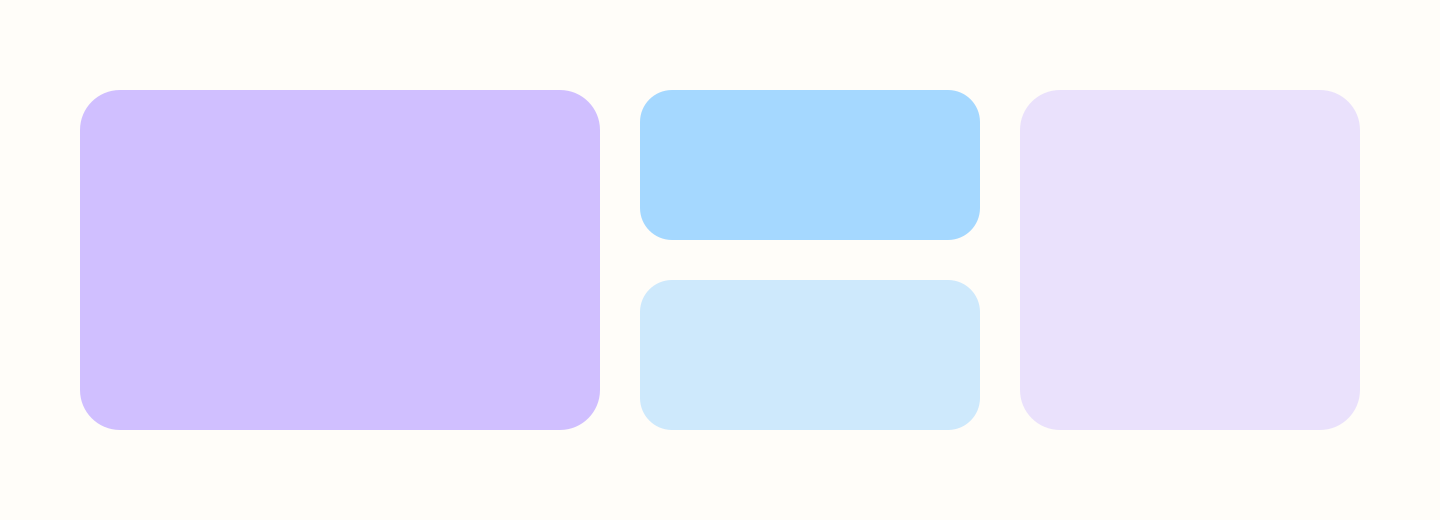
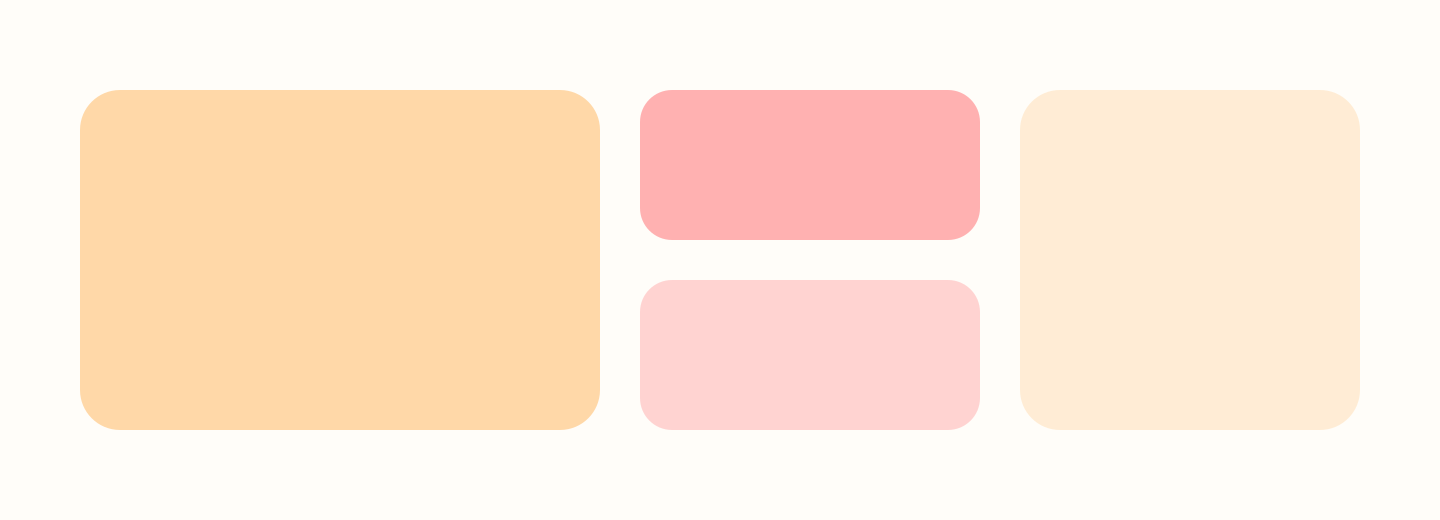
content(blog): TulipLot vs start.me comparison
Claude-Session: https://claude.ai/code/session_018xGUqZse2QXBPHcTCpKf1t

diff --git a/frontend/src/app/features/marketing/content.generated.ts b/frontend/src/app/features/marketing/content.generated.ts
@@ -121,6 +121,33 @@ export const POSTS: ContentDoc[] = [
     "html": "<h2>The short answer</h2>\n<p>Short answer: you can&#39;t put Gmail and Google Calendar inside the same page, because Google won&#39;t let either one load inside a frame on someone else&#39;s site. &quot;Side by side&quot; here means a panel, a second window, or a launcher, not two panes stitched into one webpage. Three options get you there, and each is worth knowing before you pick one.</p>\n<h2>Option 1: Gmail&#39;s built-in side panel</h2>\n<p>Google already built this one. Open Gmail on the web and you&#39;ll find a side panel that shows your calendar without leaving your inbox. It&#39;s free, it&#39;s already there, and it&#39;s the first thing worth trying before you install anything else.</p>\n<p>The catch is size and scope. The panel is narrow, built for a glance rather than planning a full week. And it&#39;s Gmail-first: open Calendar on its own and there&#39;s no equivalent panel showing your inbox back. It solves the problem from one direction only.</p>\n<h2>Option 2: two windows, snapped</h2>\n<p>The other free option is your operating system. Snap Gmail to one half of the screen and Calendar to the other: Windows Snap or macOS Split View, both a drag or a keyboard shortcut away. Nothing to install, and you get two full, unrestricted windows instead of one narrow panel.</p>\n<p>The tradeoff is that it doesn&#39;t stick. Close the windows, restart your computer, or just open a fresh browser session, and the split is gone. It&#39;s a real fix for right now, rebuilt from scratch the next time you need it.</p>\n<h2>Option 3: a dashboard with launcher cells</h2>\n<p>TulipLot takes a different approach: a fixed grid where Gmail and Calendar each get their own cell, in the same spot every time you open it. Neither one loads live inside that cell. Click it, and it opens the real Gmail or the real Calendar in its own browser tab, exactly as if you&#39;d typed the address yourself.</p>\n<p>That&#39;s not embedded mail, and it isn&#39;t pretending to be. What you get instead is one predictable place to click from, sitting next to cells that do load live: a Trello board, a project tracker, whatever else you check in the same few minutes. Gmail and Calendar become two fixed spots in your daily lineup instead of two tabs buried among the rest.</p>\n<h2>Why neither one embeds</h2>\n<p>Gmail and Calendar refuse to load inside anyone else&#39;s page on purpose. It&#39;s the same defense banks use, aimed at an attack called clickjacking, where a hidden frame tricks you into clicking something you never meant to click. Google isn&#39;t being difficult here; it&#39;s protecting the account that guards your email and your schedule.</p>\n<p>That protection runs deeper than a header any extension could strip. <a href=\"/guides/why-sites-wont-load\">Why some sites won&#39;t load in a dashboard</a> covers the full mechanics, but the short version is that Gmail checks whether it&#39;s the top-level page in your browser, not just whether a header allows framing. No tool gets around that, and none honestly should try.</p>\n<h2>Questions</h2>\n<h3>Can I put Gmail inside a dashboard cell?</h3>\n<p>No. Gmail sends back an instruction telling every browser to refuse displaying it inside another page, with no exception for any dashboard, extension, or tool. A Gmail cell always opens the real Gmail in its own tab instead of loading it live, and that&#39;s true everywhere, not just in TulipLot.</p>\n<h3>Does the TulipLot Companion unlock Gmail?</h3>\n<p>No. The Companion is a free extension that strips embedding headers for sites blocked only at that level, which is what unlocks catalog sites like Notion once you turn it on. Gmail&#39;s protection goes past headers into how its login and session behave outside a top-level page, and no extension reaches that deep. Gmail stays a one-click launcher whether or not the Companion is installed.</p>\n<p>Want both in view without hunting through tabs? <a href=\"/register\">Create a free TulipLot account</a>, put Gmail and Calendar in fixed cells next to the tools you actually work in, and see <a href=\"/blog/view-multiple-websites-at-once\">more ways to view multiple sites at once</a> if split screen and side panels aren&#39;t cutting it.</p>\n"
   },
   {
+    "slug": "tuliplot-vs-start-me",
+    "title": "TulipLot vs start.me: widgets and links, or live sites?",
+    "description": "start.me builds a start page from bookmarks and widgets. TulipLot renders a fixed grid of real sites, live. Both have ad-supported free tiers — here's how they differ and what each costs.",
+    "date": "2026-08-02",
+    "category": "Comparison",
+    "readingMinutes": 8,
+    "faq": [
+      {
+        "q": "Is TulipLot a start.me alternative?",
+        "a": "Only if what you actually want differs from what start.me offers: bookmarks and widgets organized on a page, instead of the actual third-party sites rendered live. TulipLot doesn't build start pages, manage bookmark collections, or offer a widget library; start.me does all of that well and TulipLot makes no attempt to. If your problem is organizing dozens of links, weather, notes, and RSS feeds into a tidy page, start.me solves it and TulipLot won't. TulipLot fits when you want a handful of sites visibly live and clickable all the time, not a place to collect links."
+      },
+      {
+        "q": "What is start.me's free plan limit?",
+        "a": "start.me's free plan is capped at three personal start pages — their help centre states \"Free users can create only three personal pages\" — and it includes advertising. Widgets and bookmarks within those three pages are unlimited, with only basic widgets available; only the page count itself is capped. Personal PRO removes both the page cap and the ads, and adds 27 PRO-only features and widgets, for $25 per year."
+      },
+      {
+        "q": "Is start.me cheaper than TulipLot?",
+        "a": "Yes, on the paid tier. start.me's Personal PRO plan is $25 per year, about $2.08 a month, against TulipLot Premium at $4 a month. Both free plans cost nothing and are ad-supported. Above free, start.me's single-user price is the lower one."
+      },
+      {
+        "q": "Can I use TulipLot without signing up?",
+        "a": "Yes. The try page gives you two live cells with no account required: pick a site from the catalog or paste any HTTPS URL, and it loads the same way a Free or Premium cell would. Those two cells stay saved to that browser only; creating a free account carries them into your dashboard and raises you to five usable cells."
+      }
+    ],
+    "html": "<p>start.me builds you a start page out of bookmarks and widgets. TulipLot renders a fixed grid of real sites, live. That&#39;s the core distinction, worth stating first, because most people searching &quot;start.me alternative&quot; aren&#39;t yet sure whether they want a better bookmark page or something that keeps actual apps open and clickable.</p>\n<p>start.me&#39;s own title tag calls it a &quot;Bookmark Manager, Custom Start Page &amp; New Tab,&quot; and the hero line on their homepage is &quot;All your important links, one click away.&quot; You build a page out of widgets — weather, RSS feeds, notes, bookmark groups, mostly first-party — and click through to the sites those bookmarks point to. TulipLot doesn&#39;t build a page out of widgets at all; a TulipLot cell renders the actual third-party site, live and interactive, in place. Want a tidy page of organized links, weather, and notes, spread across a couple of start pages for different parts of your life? start.me does that, and does it well. Want your inbox and calendar actually visible and clickable without leaving the grid? That&#39;s TulipLot&#39;s job, and start.me&#39;s widgets don&#39;t attempt it.</p>\n<h2>What start.me does well</h2>\n<p>start.me is a mature start page and bookmark manager, and it isn&#39;t standing still. Their July 2026 changelog alone shipped a bookmark clean-up tool, a rebuilt Notes editor, timer and page-introduction widgets, wider 7-column page layouts, and AI-driven site suggestions. That&#39;s active, ongoing product work, not a page that shipped once and stopped.</p>\n<p>The free plan is real and genuinely usable: it costs nothing, and the only hard cap is on start pages themselves — start.me&#39;s help centre says &quot;Free users can create only three personal pages.&quot; Widgets and bookmarks within those three pages are unlimited; you can pack each page as full as you want, with only basic widgets available until you upgrade. The free plan also, in start.me&#39;s own words, &quot;Includes advertising.&quot;</p>\n<p>If what you want is a tidy home page with dozens of organized links, weather, notes, and RSS feeds arranged across a few pages, start.me is the better tool for that job, and it&#39;s more mature at it than TulipLot is. TulipLot has no widget library at all, first-party or otherwise — it wasn&#39;t built to have one.</p>\n<h2>What TulipLot does differently</h2>\n<p>TulipLot doesn&#39;t build a page out of widgets, it renders the sites themselves. A TulipLot dashboard is a fixed 3×2 grid, six cells, and whatever sits in a cell is a live, interactive version of that actual site: an inbox showing new mail as it arrives, a calendar you click straight into, not a bookmark pointing at either one and not a first-party widget standing in for it. Free accounts get five usable cells plus one ad cell fixed in the bottom-right slot; Premium drops the ad and unlocks all six for $4 a month. You can also try it before creating an account: two live cells load immediately at <a href=\"/try\">/try</a>, saved to that browser only, and they carry into your dashboard automatically if you sign up later.</p>\n<p>Every cell fills from the built-in catalog or from any HTTPS URL you paste in yourself, and the free TulipLot Companion, a Chrome extension, unlocks embedding for many sites that would otherwise refuse to load in a frame. Not every site can be embedded this way, though: a handful of major login-gated services, Gmail and Google Calendar among them, never allow embedding under any circumstances, Companion or not, and become one-click launchers instead — a cell you click to open the site in its own tab rather than seeing it live inline. That&#39;s the tradeoff for rendering actual interactive sites instead of linking out to them.</p>\n<h2>Price, and the one where start.me wins</h2>\n<p>This is the one page in this series where the ad comparison is actually fair. start.me&#39;s free plan &quot;Includes advertising,&quot; stated plainly on their own pricing page, the same way TulipLot&#39;s free plan carries one ad cell. Toby and Workona don&#39;t describe their free tiers as ad-supported at all, so that comparison doesn&#39;t apply to them — but it applies here, and it&#39;s a genuine point of similarity between the two products rather than a stretch.</p>\n<p>Above free, the honest number is one that doesn&#39;t flatter TulipLot: start.me&#39;s Personal PRO plan is $25 per year, about $2.08 a month, and it removes ads entirely, unlocks unlimited start pages, and adds 27 PRO-only features and widgets plus AI tools. TulipLot Premium is $4 a month, with no annual option. Compared however you like, start.me&#39;s paid tier is cheaper than TulipLot&#39;s, and that&#39;s worth stating plainly rather than talking around it. (start.me&#39;s Team plan, $25/month billed annually for 10 users, is a different product built for groups and isn&#39;t part of this single-user comparison.)</p>\n<p>What TulipLot&#39;s $4 buys instead is the sixth live cell, not a cheaper way to organize more bookmarks — the two plans aren&#39;t priced for the same job. But a reader weighing two subscription numbers deserves the real ones, not a comparison that quietly flatters whichever page they&#39;re reading.</p>\n<h2>TulipLot vs start.me at a glance</h2>\n<table>\n<thead>\n<tr>\n<th></th>\n<th>start.me</th>\n<th>TulipLot</th>\n</tr>\n</thead>\n<tbody><tr>\n<td>What it is</td>\n<td>Widget-based start page: bookmarks, weather, RSS, notes</td>\n<td>Live grid of real, interactive third-party sites</td>\n</tr>\n<tr>\n<td>Third-party sites rendered live</td>\n<td>No — widgets are mostly first-party; bookmarks open in their own tab</td>\n<td>Yes, up to 6, live and simultaneous, in a fixed grid</td>\n</tr>\n<tr>\n<td>Free tier ad-supported</td>\n<td>Yes — free plan &quot;Includes advertising&quot;</td>\n<td>Yes, one ad cell on the free plan</td>\n</tr>\n<tr>\n<td>Single-user paid price</td>\n<td>$25/year (≈$2.08/month)</td>\n<td>$4/month</td>\n</tr>\n<tr>\n<td>Team / collaboration</td>\n<td>Yes, $25/month billed annually, 10 users</td>\n<td>No built-in team or collaboration features</td>\n</tr>\n</tbody></table>\n<h2>Which should you pick?</h2>\n<p>Pick start.me if you want a home page: a tidy, organized collection of bookmarks, weather, notes, and RSS feeds, maybe spread across a couple of start pages for different parts of your life. It&#39;s a mature product that ships new widgets regularly, and at $25 a year it&#39;s a cheap way to get there.</p>\n<p>Pick TulipLot if the problem isn&#39;t organizing links, it&#39;s needing a handful of specific sites open, live, and clickable at the same time — an inbox, a calendar, a project board, not a bookmark to any of them. If your workflow is &quot;check five things constantly&quot; rather than &quot;keep a tidy page of things I might click,&quot; a live grid does that in a way a widget-based start page structurally can&#39;t, no matter how many PRO widgets get added to it.</p>\n<p>Plenty of people could reasonably run both: start.me as the home page for links and reading you don&#39;t need live, TulipLot for the handful of things you watch constantly all day. They&#39;re not really built for the same job, so there&#39;s no real conflict in running both.</p>\n<h2>Questions people ask</h2>\n<h3>Is TulipLot a start.me alternative?</h3>\n<p>Only if what you actually want differs from what start.me offers: bookmarks and widgets organized on a page, instead of the actual third-party sites rendered live. TulipLot doesn&#39;t build start pages, manage bookmark collections, or offer a widget library; start.me does all of that well and TulipLot makes no attempt to. If your problem is organizing dozens of links, weather, notes, and RSS feeds into a tidy page, start.me solves it and TulipLot won&#39;t. TulipLot fits when you want a handful of sites visibly live and clickable all the time, not a place to collect links.</p>\n<h3>What is start.me&#39;s free plan limit?</h3>\n<p>start.me&#39;s free plan is capped at three personal start pages — their help centre states &quot;Free users can create only three personal pages&quot; — and it includes advertising. Widgets and bookmarks within those three pages are unlimited, with only basic widgets available; only the page count itself is capped. Personal PRO removes both the page cap and the ads, and adds 27 PRO-only features and widgets, for $25 per year.</p>\n<h3>Is start.me cheaper than TulipLot?</h3>\n<p>Yes, on the paid tier. start.me&#39;s Personal PRO plan is $25 per year, about $2.08 a month, against TulipLot Premium at $4 a month. Both free plans cost nothing and are ad-supported. Above free, start.me&#39;s single-user price is the lower one.</p>\n<h3>Can I use TulipLot without signing up?</h3>\n<p>Yes. The <a href=\"/try\">try page</a> gives you two live cells with no account required: pick a site from the catalog or paste any HTTPS URL, and it loads the same way a Free or Premium cell would. Those two cells stay saved to that browser only; creating a free account carries them into your dashboard and raises you to five usable cells.</p>\n<p>If a tidy page of organized links, widgets, and bookmarks is what you&#39;re after, <a href=\"https://start.me\">start.me</a> is the better tool, plain and simple, and the cheaper one too. If you want a handful of sites live and visible all day instead, <a href=\"/try\">try TulipLot</a> with no account, or see exactly what changes between <a href=\"/guides/premium-vs-free\">Free and Premium</a> before deciding.</p>\n"
+  },
+  {
     "slug": "tuliplot-vs-toby",
     "title": "TulipLot vs Toby: which one fits how you actually work?",
     "description": "Toby saves and organizes tabs you reopen later. TulipLot keeps a fixed grid of sites live at once. They solve different problems — here's an honest look at both, including price.",

diff --git a/content/blog/tuliplot-vs-start-me.md b/content/blog/tuliplot-vs-start-me.md
@@ -1,0 +1,72 @@
+---
+title: TulipLot vs start.me: widgets and links, or live sites?
+slug: tuliplot-vs-start-me
+description: start.me builds a start page from bookmarks and widgets. TulipLot renders a fixed grid of real sites, live. Both have ad-supported free tiers — here's how they differ and what each costs.
+date: 2026-08-02
+category: Comparison
+---
+# TulipLot vs start.me: widgets and links, or live sites?
+
+start.me builds you a start page out of bookmarks and widgets. TulipLot renders a fixed grid of real sites, live. That's the core distinction, worth stating first, because most people searching "start.me alternative" aren't yet sure whether they want a better bookmark page or something that keeps actual apps open and clickable.
+
+start.me's own title tag calls it a "Bookmark Manager, Custom Start Page & New Tab," and the hero line on their homepage is "All your important links, one click away." You build a page out of widgets — weather, RSS feeds, notes, bookmark groups, mostly first-party — and click through to the sites those bookmarks point to. TulipLot doesn't build a page out of widgets at all; a TulipLot cell renders the actual third-party site, live and interactive, in place. Want a tidy page of organized links, weather, and notes, spread across a couple of start pages for different parts of your life? start.me does that, and does it well. Want your inbox and calendar actually visible and clickable without leaving the grid? That's TulipLot's job, and start.me's widgets don't attempt it.
+
+## What start.me does well
+
+start.me is a mature start page and bookmark manager, and it isn't standing still. Their July 2026 changelog alone shipped a bookmark clean-up tool, a rebuilt Notes editor, timer and page-introduction widgets, wider 7-column page layouts, and AI-driven site suggestions. That's active, ongoing product work, not a page that shipped once and stopped.
+
+The free plan is real and genuinely usable: it costs nothing, and the only hard cap is on start pages themselves — start.me's help centre says "Free users can create only three personal pages." Widgets and bookmarks within those three pages are unlimited; you can pack each page as full as you want, with only basic widgets available until you upgrade. The free plan also, in start.me's own words, "Includes advertising."
+
+If what you want is a tidy home page with dozens of organized links, weather, notes, and RSS feeds arranged across a few pages, start.me is the better tool for that job, and it's more mature at it than TulipLot is. TulipLot has no widget library at all, first-party or otherwise — it wasn't built to have one.
+
+## What TulipLot does differently
+
+TulipLot doesn't build a page out of widgets, it renders the sites themselves. A TulipLot dashboard is a fixed 3×2 grid, six cells, and whatever sits in a cell is a live, interactive version of that actual site: an inbox showing new mail as it arrives, a calendar you click straight into, not a bookmark pointing at either one and not a first-party widget standing in for it. Free accounts get five usable cells plus one ad cell fixed in the bottom-right slot; Premium drops the ad and unlocks all six for $4 a month. You can also try it before creating an account: two live cells load immediately at [/try](/try), saved to that browser only, and they carry into your dashboard automatically if you sign up later.
+
+Every cell fills from the built-in catalog or from any HTTPS URL you paste in yourself, and the free TulipLot Companion, a Chrome extension, unlocks embedding for many sites that would otherwise refuse to load in a frame. Not every site can be embedded this way, though: a handful of major login-gated services, Gmail and Google Calendar among them, never allow embedding under any circumstances, Companion or not, and become one-click launchers instead — a cell you click to open the site in its own tab rather than seeing it live inline. That's the tradeoff for rendering actual interactive sites instead of linking out to them.
+
+## Price, and the one where start.me wins
+
+This is the one page in this series where the ad comparison is actually fair. start.me's free plan "Includes advertising," stated plainly on their own pricing page, the same way TulipLot's free plan carries one ad cell. Toby and Workona don't describe their free tiers as ad-supported at all, so that comparison doesn't apply to them — but it applies here, and it's a genuine point of similarity between the two products rather than a stretch.
+
+Above free, the honest number is one that doesn't flatter TulipLot: start.me's Personal PRO plan is $25 per year, about $2.08 a month, and it removes ads entirely, unlocks unlimited start pages, and adds 27 PRO-only features and widgets plus AI tools. TulipLot Premium is $4 a month, with no annual option. Compared however you like, start.me's paid tier is cheaper than TulipLot's, and that's worth stating plainly rather than talking around it. (start.me's Team plan, $25/month billed annually for 10 users, is a different product built for groups and isn't part of this single-user comparison.)
+
+What TulipLot's $4 buys instead is the sixth live cell, not a cheaper way to organize more bookmarks — the two plans aren't priced for the same job. But a reader weighing two subscription numbers deserves the real ones, not a comparison that quietly flatters whichever page they're reading.
+
+## TulipLot vs start.me at a glance
+
+| | start.me | TulipLot |
+|---|---|---|
+| What it is | Widget-based start page: bookmarks, weather, RSS, notes | Live grid of real, interactive third-party sites |
+| Third-party sites rendered live | No — widgets are mostly first-party; bookmarks open in their own tab | Yes, up to 6, live and simultaneous, in a fixed grid |
+| Free tier ad-supported | Yes — free plan "Includes advertising" | Yes, one ad cell on the free plan |
+| Single-user paid price | $25/year (≈$2.08/month) | $4/month |
+| Team / collaboration | Yes, $25/month billed annually, 10 users | No built-in team or collaboration features |
+
+## Which should you pick?
+
+Pick start.me if you want a home page: a tidy, organized collection of bookmarks, weather, notes, and RSS feeds, maybe spread across a couple of start pages for different parts of your life. It's a mature product that ships new widgets regularly, and at $25 a year it's a cheap way to get there.
+
+Pick TulipLot if the problem isn't organizing links, it's needing a handful of specific sites open, live, and clickable at the same time — an inbox, a calendar, a project board, not a bookmark to any of them. If your workflow is "check five things constantly" rather than "keep a tidy page of things I might click," a live grid does that in a way a widget-based start page structurally can't, no matter how many PRO widgets get added to it.
+
+Plenty of people could reasonably run both: start.me as the home page for links and reading you don't need live, TulipLot for the handful of things you watch constantly all day. They're not really built for the same job, so there's no real conflict in running both.
+
+## Questions people ask
+
+### Is TulipLot a start.me alternative?
+
+Only if what you actually want differs from what start.me offers: bookmarks and widgets organized on a page, instead of the actual third-party sites rendered live. TulipLot doesn't build start pages, manage bookmark collections, or offer a widget library; start.me does all of that well and TulipLot makes no attempt to. If your problem is organizing dozens of links, weather, notes, and RSS feeds into a tidy page, start.me solves it and TulipLot won't. TulipLot fits when you want a handful of sites visibly live and clickable all the time, not a place to collect links.
+
+### What is start.me's free plan limit?
+
+start.me's free plan is capped at three personal start pages — their help centre states "Free users can create only three personal pages" — and it includes advertising. Widgets and bookmarks within those three pages are unlimited, with only basic widgets available; only the page count itself is capped. Personal PRO removes both the page cap and the ads, and adds 27 PRO-only features and widgets, for $25 per year.
+
+### Is start.me cheaper than TulipLot?
+
+Yes, on the paid tier. start.me's Personal PRO plan is $25 per year, about $2.08 a month, against TulipLot Premium at $4 a month. Both free plans cost nothing and are ad-supported. Above free, start.me's single-user price is the lower one.
+
+### Can I use TulipLot without signing up?
+
+Yes. The [try page](/try) gives you two live cells with no account required: pick a site from the catalog or paste any HTTPS URL, and it loads the same way a Free or Premium cell would. Those two cells stay saved to that browser only; creating a free account carries them into your dashboard and raises you to five usable cells.
+
+If a tidy page of organized links, widgets, and bookmarks is what you're after, [start.me](https://start.me) is the better tool, plain and simple, and the cheaper one too. If you want a handful of sites live and visible all day instead, [try TulipLot](/try) with no account, or see exactly what changes between [Free and Premium](/guides/premium-vs-free) before deciding.
